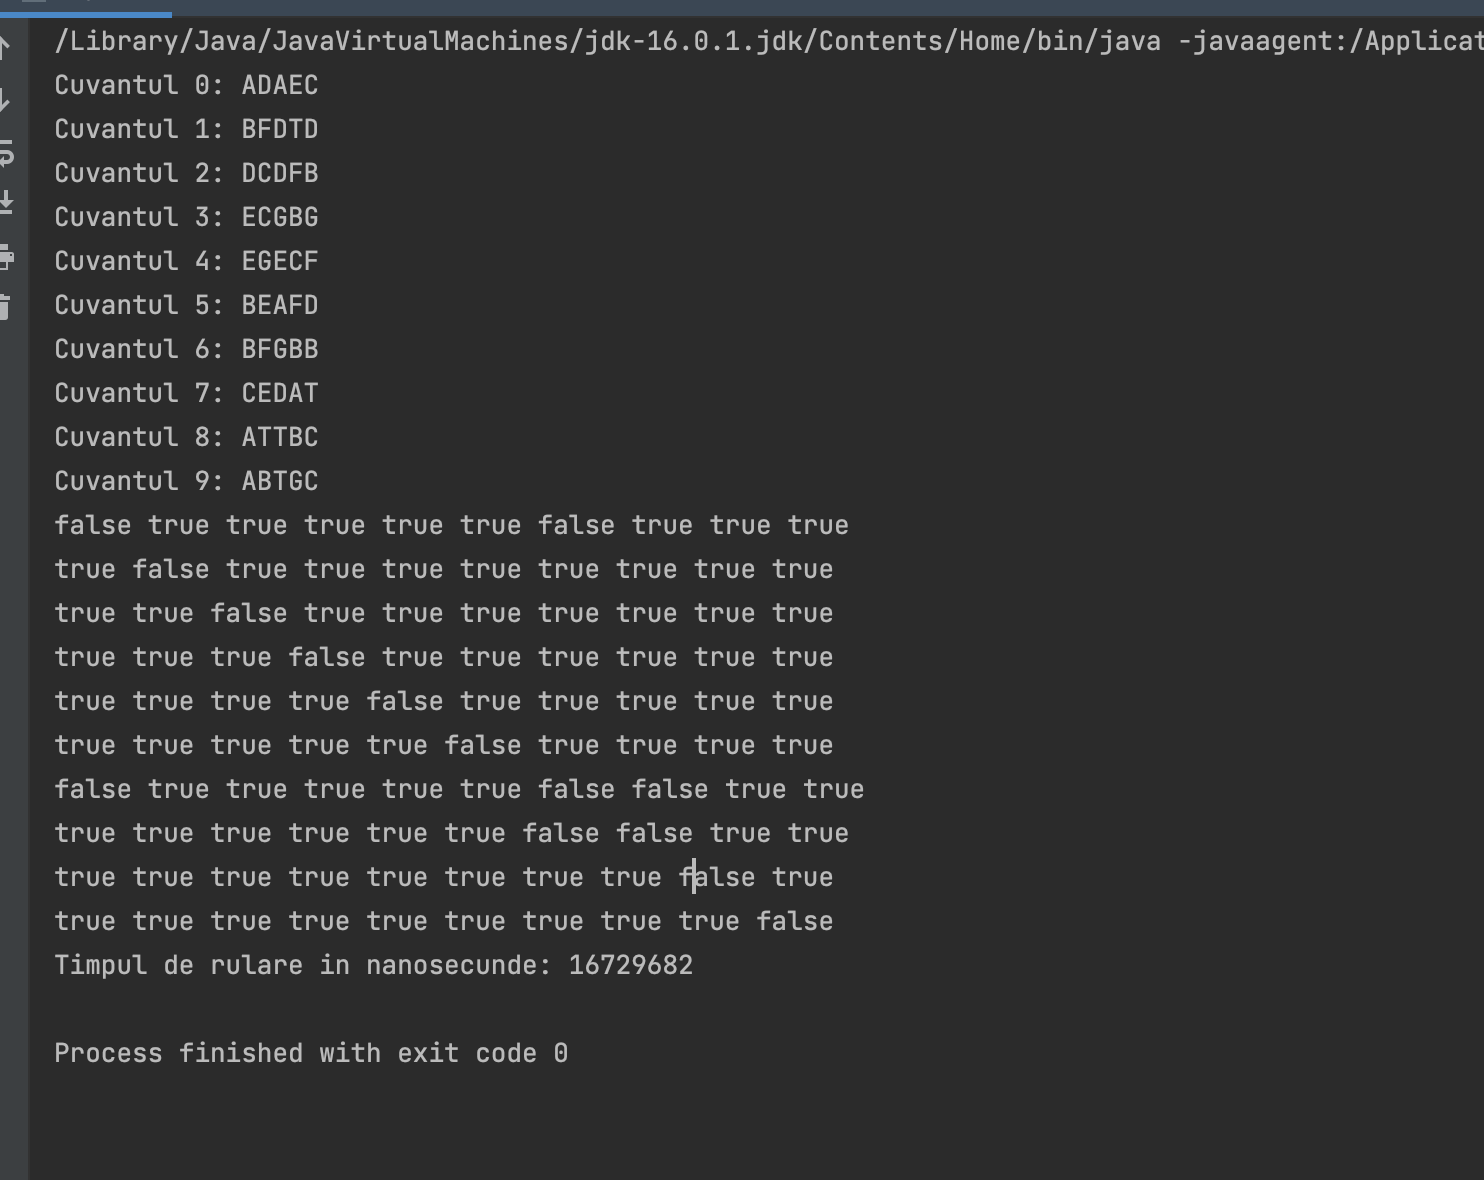
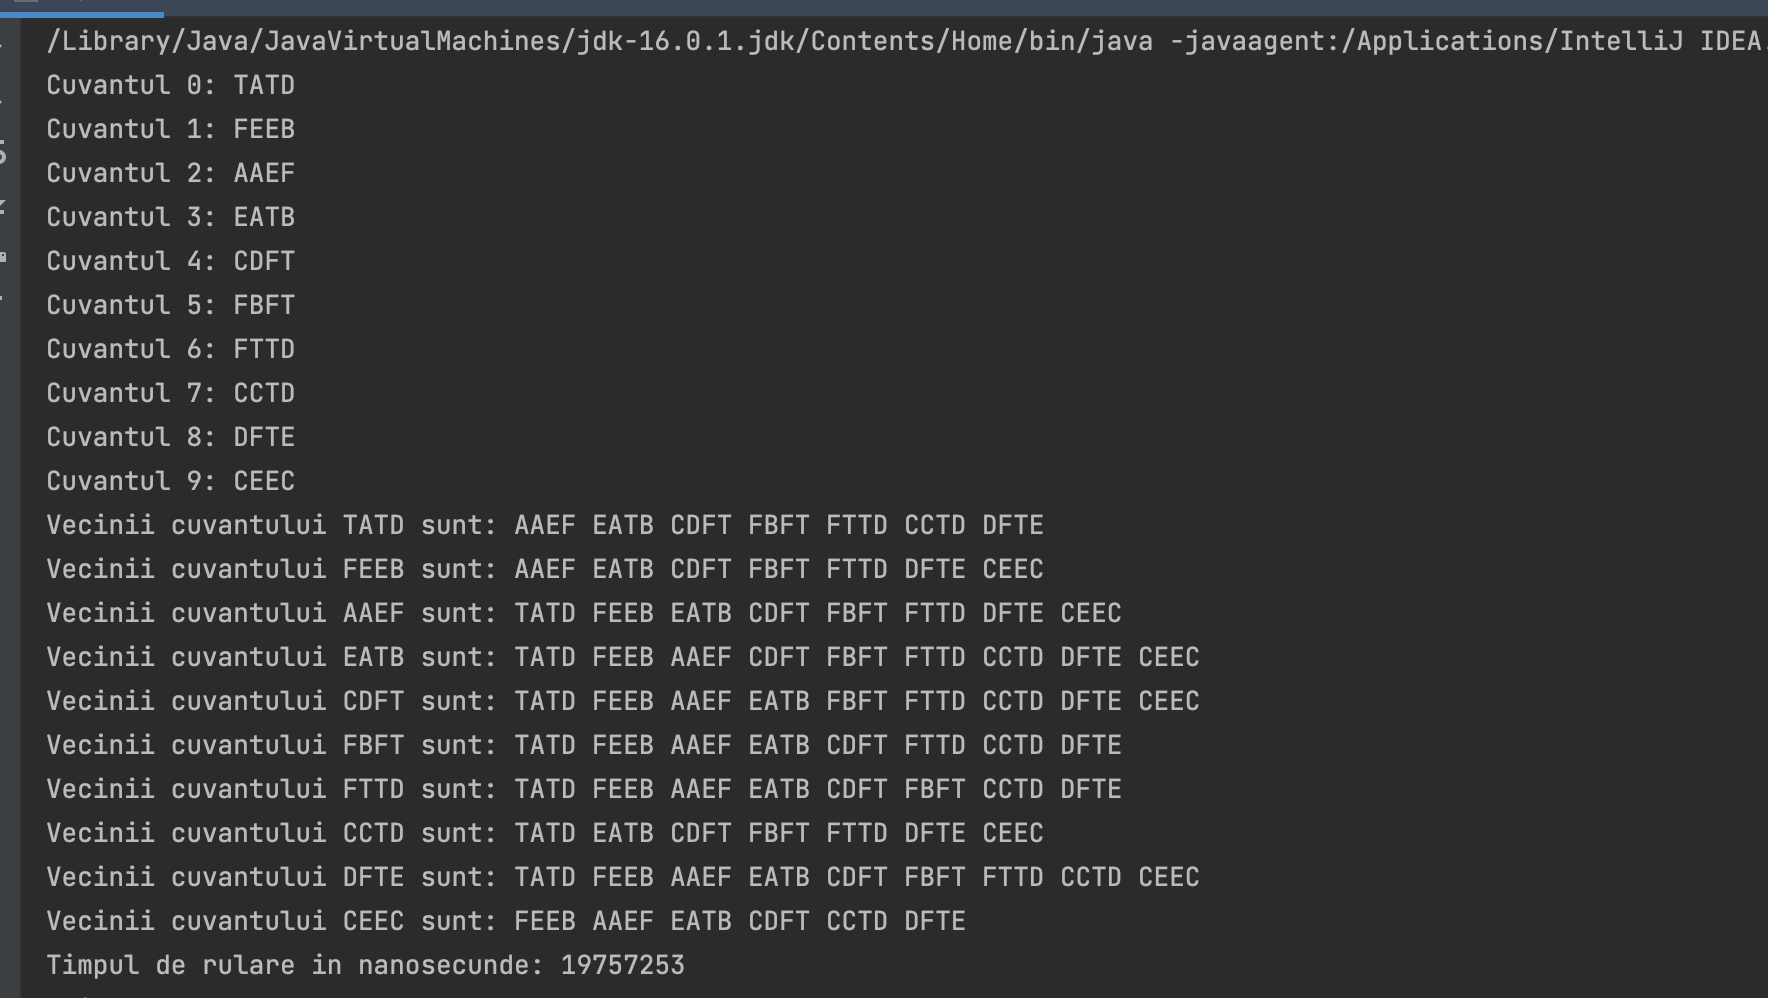
Laborator1

Changed region(s): [[0.0, 0.0, 1.0, 0.994]]

diff --git a/Laborator1/src/com/company/Main.java b/Laborator1/src/com/company/Main.java
@@ -1,12 +1,14 @@
 package com.company;
 
 import java.util.Random;
+import java.util.Arrays;
 
 public class Main {
     public static void main(String[] args) {
         Main lab = new Main();
-       // lab.compulsory();
+        lab.compulsory();
         lab.homework(args);
+
     }
     void compulsory() {
         //Step 1
@@ -62,8 +64,8 @@ public class Main {
 
         Boolean[][] matrix = new Boolean[n][n]; //Matricea vecinilor
         for(int i = 0; i < n; i++)
-            for(int j = 0; j < n; j++){
-                matrix[i][j] = matrix[j][i] = false;
+            for(int j = i; j < n; j++){
+                matrix[i][j] = matrix[j][i] = false;//Cum relatia de vecinatate merge in ambele sensuri, parcurgem matricea doar deasupra diagonalei principale
                 if(i == j) //Un cuvant nu poate fi vecin cu el insusi
                     continue;
                 for(int t = 0; t < p; t++)//Cautam fiecare litera din cuvantul j in cuvantul i si se opreste la prima gasita, cei doi fiind vecini
@@ -72,18 +74,106 @@ public class Main {
                         break;
                     }
             }
-        for(int i = 0; i < n; i++) { //Afisam matricea
+
+        int[][] lists = new int[n][n];
+        int[] listSize = new int[n];
+
+        for(int i = 0; i < n; i++) { //Construim lista de adiacenta
+            listSize[i] = 0;
             for (int j = 0; j < n; j++)
-                System.out.print(matrix[i][j] + " ");
-            System.out.println();
+                if(matrix[i][j])
+                    lists[i][listSize[i]++] = j;
         }
 
+    /*    for(int i = 0; i < n; i++) {
+            System.out.print("Vecinii cuvantului " + array[i] + " sunt: ");
+            for (int j = 0; j < listSize[i]; j++)
+                System.out.print(array[lists[i][j]] + " ");
+            System.out.println();
+        }
+*/
 
         long endTime = System.nanoTime(); //Sfarsitul cronometrului
 
         System.out.println("Timpul de rulare in nanosecunde: " + (endTime-startTime));
+
+    //    bonus(array, lists, listSize);
+
     }
-    void bonus() {
-//Do stuff
+    void bonus(String[] array, int[][] lists, int[] listSize) {
+        int[] maximum = new int[array.length+2];
+        maximum[0] = -5;
+        boolean first = false;
+        for(int i = 0; i < array.length; i++)
+        {
+            int[] result = DFS(i,array,lists,listSize);
+            if(result[0] > maximum[0])
+                System.arraycopy(result,0, maximum,0,result.length);
+
+            if(maximum[0] != -5 && !first)
+            {
+                System.out.print("Prima secventa: ");
+                print(array,maximum);
+                first = true;
+            }
+
+        }
+        if(maximum[0] == -5)
+            System.out.println("Nu s-a gasit nicio secventa de cuvinte");
+        else {
+            System.out.print("Secventa cu k maxim: ");
+            print(array, maximum);
+        }
+    }
+
+    void print(String[] array, int[] maximum)
+    {
+        int u = maximum[1];
+        while(u != -1)
+        {
+            System.out.print(array[u] + " ");
+            u = maximum[u+2];
+        }
+        System.out.println();
+    }
+
+    int[] DFS(int s, String[] array, int[][] lists, int[] listSize)
+    {
+        int n = array.length;
+        int[] label = new int[n];
+        int[] parent = new int[n];
+        int[] next = new int[n];
+        int[] result = new int[n+2];
+        Arrays.fill(label,-2);
+        Arrays.fill(parent,-2);
+        Arrays.fill(next,0);
+        label[s] = 0;
+        parent[s] = -1;
+
+        int[] myStack = new int[n]; int last = 1, ns = 0;
+        myStack[0] = s;
+        result[0] = -5;
+        int u;
+        while(last != 0)
+        {
+            u = myStack[last-1];
+            if(next[u] < listSize[u]) {
+                if (label[lists[u][next[u]]] < -1) {
+                    ns++;
+                    label[lists[u][next[u]]] = ns;
+                    parent[lists[u][next[u]]] = u;
+                    myStack[last++] = lists[u][next[u]];
+                } else if (lists[u][next[u]] == s && parent[u] != s)
+                {
+                    result[0] = label[u];
+                    result[1] = u;
+                    System.arraycopy(parent, 0, result, 2, n);
+                }
+                next[u]++;
+            }
+            else
+                last--;
+        }
+        return result;
     }
 }
